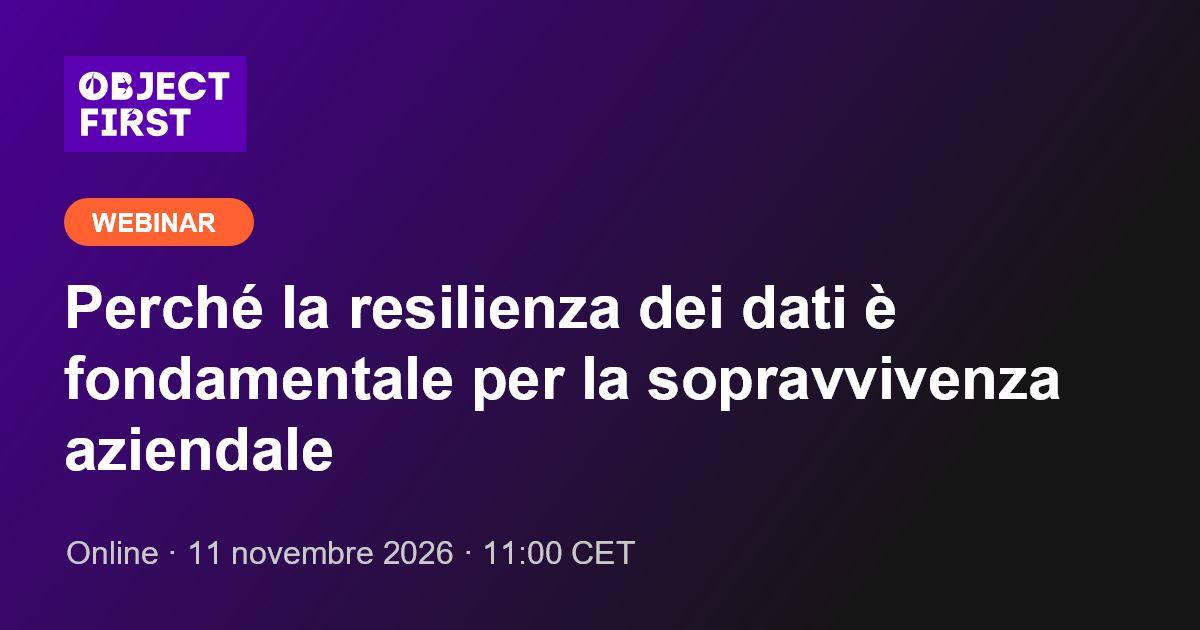
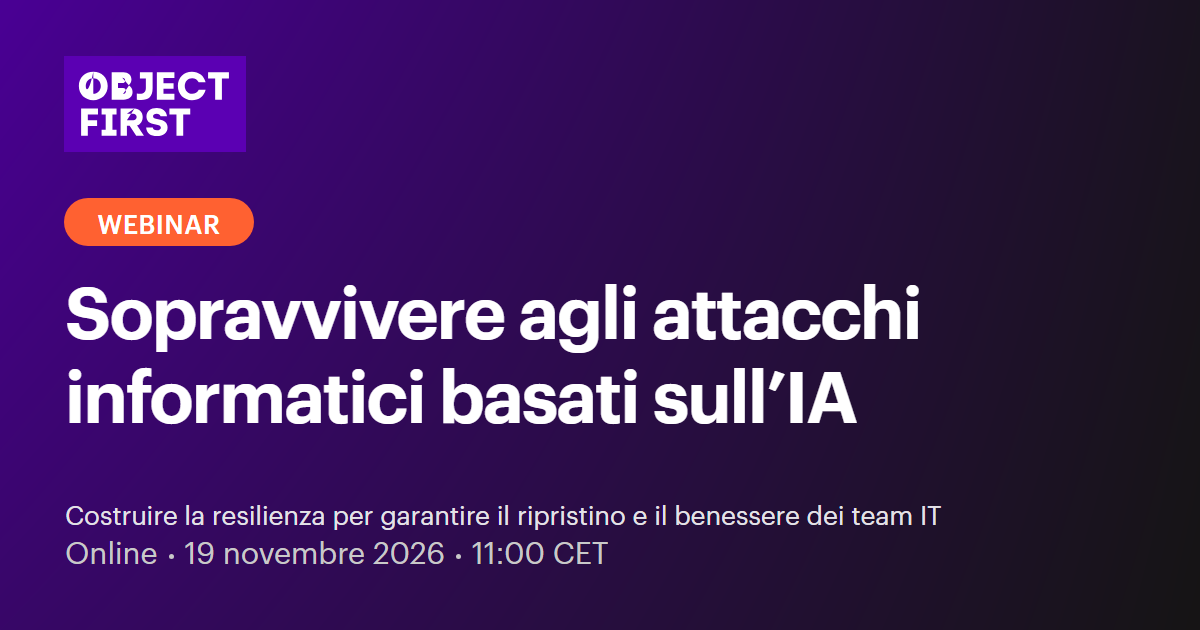
fix: allineamento finale al Copy Plan e SEO social
- og-cover.png rigenerata con titolo e data nuovi (via SVG logo, ora nitido)
- og:url / og:image / twitter:image sul dominio corretto (objectfirst.vercel.app)
- canonical, og:locale, og:site_name, og:image:secure_url aggiunti
- title accorciato per i risultati di ricerca (H1 resta completo)
- stat 79%: ripristinato "dopo un attacco"
- ruoli speaker con virgole come da PDF, label campo "Ruolo"
- rimosso dist/ (build vecchia v3-light) e README aggiornato

diff --git a/index.html b/index.html
@@ -1,22 +1,27 @@
 <!DOCTYPE html>
-<!-- BUILD v4-copy-2026-10-14: copy aggiornato da Copy Plan 14 Oct 2026, data 19 Nov -->
+<!-- BUILD v5-copy-2026-10-20: allineamento finale al Copy Plan 14 Oct 2026, data 19 Nov -->
 <html lang="it">
 <head>
   <meta charset="UTF-8">
   <meta name="viewport" content="width=device-width, initial-scale=1.0">
-  <title>Sopravvivere agli attacchi informatici basati sull’IA: costruire la resilienza per garantire il ripristino e il benessere dei team IT | Webinar Object First</title>
+  <title>Sopravvivere agli attacchi IA | Webinar Object First</title>
   <meta name="description" content="Webinar Object First e Veeam: come mantenere i backup ripristinabili anche con le credenziali di amministratore compromesse. Online · 19 novembre 2026 · 11:00 CET.">
+  <link rel="canonical" href="https://objectfirst.vercel.app/">
   <meta name="theme-color" content="#ffffff">
   <link rel="icon" type="image/svg+xml" href="favicon.svg">
   <meta property="og:type" content="website">
+  <meta property="og:site_name" content="Object First">
+  <meta property="og:locale" content="it_IT">
   <meta property="og:title" content="Sopravvivere agli attacchi informatici basati sull’IA: costruire la resilienza per garantire il ripristino e il benessere dei team IT">
   <meta property="og:description" content="L’IA ha dato agli aggressori strumenti più rapidi e sofisticati. Scopri come mantenere i backup ripristinabili e perché la resilienza riguarda le persone tanto quanto la tecnologia.">
-  <meta property="og:url" content="https://object-first.vercel.app/">
-  <meta property="og:image" content="https://object-first.vercel.app/og-cover.png">
+  <meta property="og:url" content="https://objectfirst.vercel.app/">
+  <meta property="og:image" content="https://objectfirst.vercel.app/og-cover.png">
+  <meta property="og:image:secure_url" content="https://objectfirst.vercel.app/og-cover.png">
   <meta property="og:image:width" content="1200">
   <meta property="og:image:height" content="630">
   <meta property="og:image:alt" content="Object First — Webinar: Sopravvivere agli attacchi informatici basati sull’IA">
   <meta name="twitter:card" content="summary_large_image">
+  <meta name="twitter:image" content="https://objectfirst.vercel.app/og-cover.png">
   <!-- Graphik Trial local (misma familia que objectfirst.com): preload + @font-face en <style> -->
   <link rel="preload" href="fonts/Graphik-Regular-Trial.otf" as="font" type="font/otf" crossorigin>
   <link rel="preload" href="fonts/Graphik-Semibold-Trial.otf" as="font" type="font/otf" crossorigin>
@@ -344,7 +349,7 @@ body.modal-open { overflow: hidden; }
         </div>
         <div class="stat">
           <p class="stat-num">79%</p>
-          <p class="stat-lab">ha impiegato più di 5 giorni lavorativi per tornare operativo</p>
+          <p class="stat-lab">ha impiegato più di 5 giorni lavorativi per tornare operativo dopo un attacco</p>
         </div>
         <div class="stat">
           <p class="stat-num">61%</p>
@@ -391,7 +396,7 @@ body.modal-open { overflow: hidden; }
           </div>
           <div>
             <p class="speaker-name">Simona Riela</p>
-            <p class="speaker-role">Senior Channel and Territory Manager Italy — Object First</p>
+            <p class="speaker-role">Senior Channel and Territory Manager Italy, Object First</p>
           </div>
         </div>
 
@@ -401,7 +406,7 @@ body.modal-open { overflow: hidden; }
           </div>
           <div>
             <p class="speaker-name">Danilo Chiavari</p>
-            <p class="speaker-role">Sr. Presales Manager, Italy &amp; Turkey — Veeam</p>
+            <p class="speaker-role">Sr. Presales Manager, Italy &amp; Turkey, Veeam</p>
           </div>
         </div>
 
@@ -439,7 +444,7 @@ body.modal-open { overflow: hidden; }
           </div>
 
           <div class="field">
-            <label for="ruolo">Il tuo ruolo*</label>
+            <label for="ruolo">Ruolo*</label>
             <input type="text" id="ruolo" name="ruolo" autocomplete="organization-title" required>
             <p class="field-error" data-error-for="ruolo">Inserisci il tuo ruolo.</p>
           </div>
@@ -459,6 +464,8 @@ body.modal-open { overflow: hidden; }
             <p class="field-error" data-error-for="provincia">Seleziona la provincia.</p>
           </div>
 
+          <!-- Consenso marketing facoltativo: nel Copy Plan è un blocco separato dai "FIELDS (all required)"
+               e in UE il consenso non può essere condizione per registrarsi al webinar. -->
           <div class="field consent">
             <label class="checkbox">
               <input type="checkbox" id="consent" name="consent">

diff --git a/README.md b/README.md
@@ -1,11 +1,12 @@
 # Object First — Webinar Landing
 
 Landing estática (un solo `index.html`) del webinar
-**"Perché la resilienza dei dati è fondamentale per la sopravvivenza aziendale"**.
+**"Sopravvivere agli attacchi informatici basati sull'IA: costruire la resilienza per garantire il ripristino e il benessere dei team IT"** — jueves 19 de noviembre de 2026, 11:00 CET.
 
 - `index.html` → página completa (HTML + CSS + JS inline, sin build)
-- `logo.png`, `favicon.svg`, `og-cover.png` → assets
-- Form → Supabase (`webinar_registrations_italia`)
+- `logo.png`, `logo.svg`, `favicon.svg`, `og-cover.png` → assets
+- `og-cover.png` → tarjeta 1200×630 para previews sociales (regenerada 20 Oct 2026)
+- Form → Supabase (`webinar_registrations_italia`); integración Zoom pendiente
 - Ramas:
   - `main` → versión oscura (actual)
   - `light-theme` → versión clara (fondos claros)
